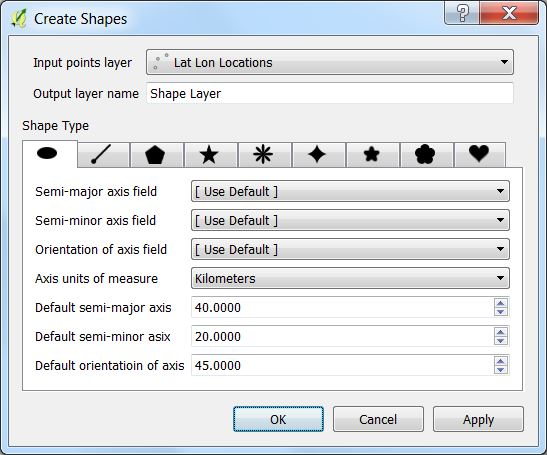
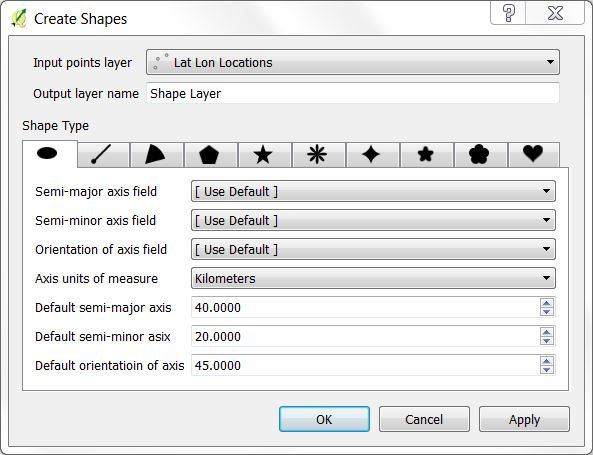
updated documentation for latest 0.4.2 release

Changed region(s): [[0.0, 0.0, 1.0, 1.0], [0.404, 0.8923, 0.808, 0.9538], [0.4351, 0.3077, 0.5905, 0.3692]]

diff --git a/readme.md b/readme.md
@@ -2,7 +2,7 @@
 
 ***Shape Tools*** has the following tools.
 
-* **Create Shapes** processes a point vector layer to create ellipses, lines of bearing, polygons, stars, ellipse roses, hypocyloids, polyfoils, epicyloids, and hearts based on the table's fields and parameters from the dialog box. All use geodetic math to calculate the shapes. 
+* **Create Shapes** processes a point vector layer to create ellipses, lines of bearing, pie wedge, polygons, stars, ellipse roses, hypocyloids, polyfoils, epicyloids, and hearts based on the table's fields and parameters from the dialog box. All use geodetic math to calculate the shapes. 
 * **XY to Line** uses pairs of coordinates from each layer's records to create geodesic lines inbetween. The input can be a point vector layer or a table layer that contains pairs of coordinates. Shape Tools is installed in the Vector menu.
 
 **Contents**
@@ -15,7 +15,7 @@
 
 <div style="text-align:center"><img src="doc/examples.png" alt="Examples"></div>
 
-Ellipses, lines of bearing, multi-sided polygons, stars, ellipse roses, hypocycloids, polyfoils, epicycloids, and hearts can be created from parameters in the layer data or from default parameters in the *Create Shapes* tool. The following are the details for creating each. All of these shapes are created centered about the point or from the point. Common elements are:
+Ellipses, lines of bearing, pie wedges, multi-sided polygons, stars, ellipse roses, hypocycloids, polyfoils, epicycloids, and hearts can be created from parameters in the layer data or from default parameters in the *Create Shapes* tool. The following are the details for creating each. All of these shapes are created centered about the point or from the point. Common elements are:
 
 * **Input points layer** - Select the desired points layer.
 * **Output layer name** - Select a name for the output layer that will be created in QGIS as a memory layer.
@@ -24,13 +24,17 @@ Ellipses, lines of bearing, multi-sided polygons, stars, ellipse roses, hypocycl
 
 <div style="text-align:center"><img src="doc/ellipse.jpg" alt="XY to Line"></div>
 
-Select the points vector layer and an output layer name or use the default name. Then select the specific ellipse parameters. The semi-major axis of the ellipse runs along the orientation axis. The orientation the axis is measured in degrees in a clockwise direction from the north line. Units of measure for semi-major, and semi-minor lengths are defined by ***Axis units of measure***.
+Select a points vector layer and an output layer name or use the default name. Then select the specific ellipse parameters. The semi-major axis of the ellipse runs along the orientation axis. The orientation the axis is measured in degrees in a clockwise direction from the north line. Units of measure for semi-major, and semi-minor lengths are defined by ***Axis units of measure***.
 
 If a field in the layer represents the semi-major axis, semi-minor axis, or orientation of axis, then the field can be selected and the data from the layer will be used, otherwise the default values will be used.
 
 ### Line of Bearing
 
 **Bearing** is the angle measured in degrees, in a clockwise direction from the north line. A **line of bearing** is the line drawn from a starting point in the direction of the **bearing** for the selected distance. The line of bearing uses geodesic math to find the shortest path and is accurate along the Earth's surface. 
+
+### Pie Wedge
+
+The pie wedge focal point starts at the point layer's geometry extending out to the specified radius. It starts at the **Starting bearing** going in a clockwise direction to the **Ending bearing**. The pie wedge can either be defined from the point vector layer data fields or from the **Default** parameters.
 
 ### Polygon
 
